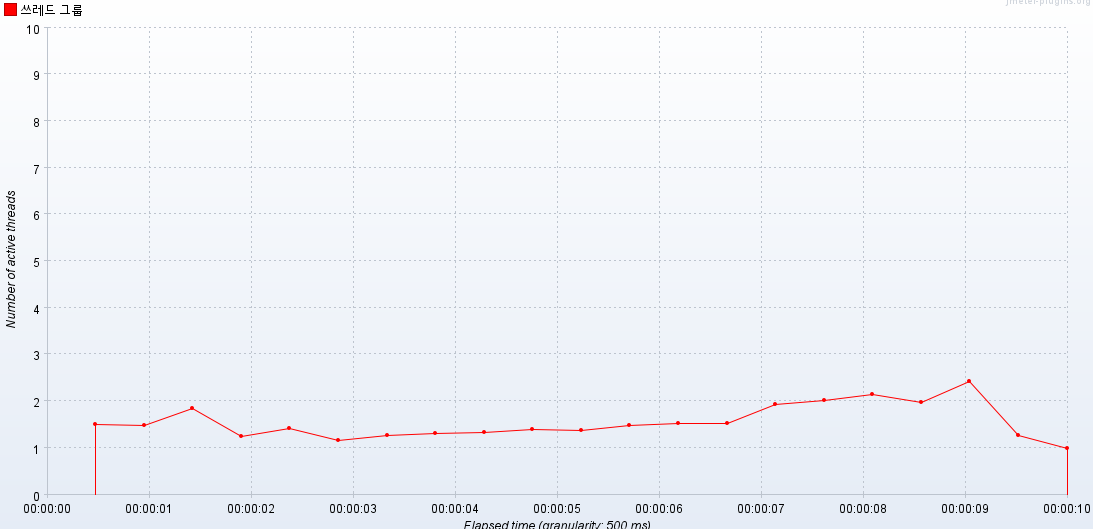
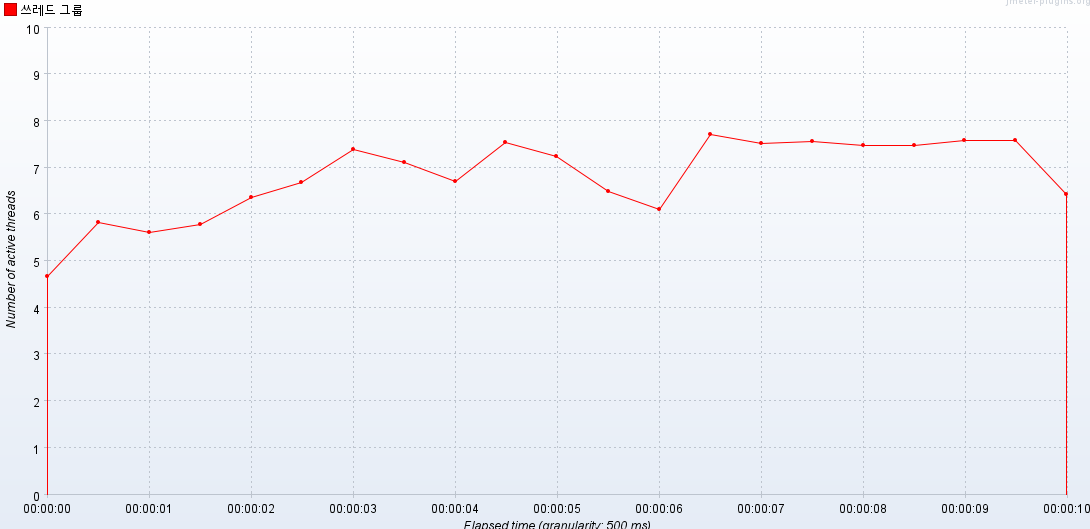
docs : README.md 중간 점검

diff --git a/README.md b/README.md
@@ -1001,15 +1001,19 @@ Elasticsearch N-gram은 %LIKE%와 유사한 부분 문자열 검색을 지원하
 - 결과 :
 
 Hit per seconds
+
 <img src="readmeImg/yongjun_es_1.png" width="80%" />
 
 Response Times Over Time
+
 <img src="readmeImg/yongjun_es_2.png" width="80%" />
 
 Active Threads Over Time
+
 <img src="readmeImg/yongjun_es_3.png" width="80%" />
 
 Transactions per Second
+
 <img src="readmeImg/yongjun_es_4.png" width="80%" />
 
 <br>
@@ -1023,19 +1027,23 @@ Transactions per Second
 
 <img src="readmeImg/yongjun_es_5.png" width="30%" />
 
-- **조건 :** min-gram : 2, max-gram : 5, 검색어 x, 삭제 된 상품 조회 x, 최신으로 30개 조회
+- **조건 :** min-gram : 2, max-gram : 5, 검색어 o, 삭제 된 상품 조회 x, 최신으로 30개 조회
 - **결과 :**
 
 Hit per seconds
+
 <img src="readmeImg/yongjun_es_6.png" width="80%" />
 
 Response Times Over Time
+
 <img src="readmeImg/yongjun_es_7.png" width="80%" />
 
 Active Threads Over Time
+
 <img src="readmeImg/yongjun_es_8.png" width="80%" />
 
 Transactions per Second
+
 <img src="readmeImg/yongjun_es_9.png" width="80%" />
 
 
